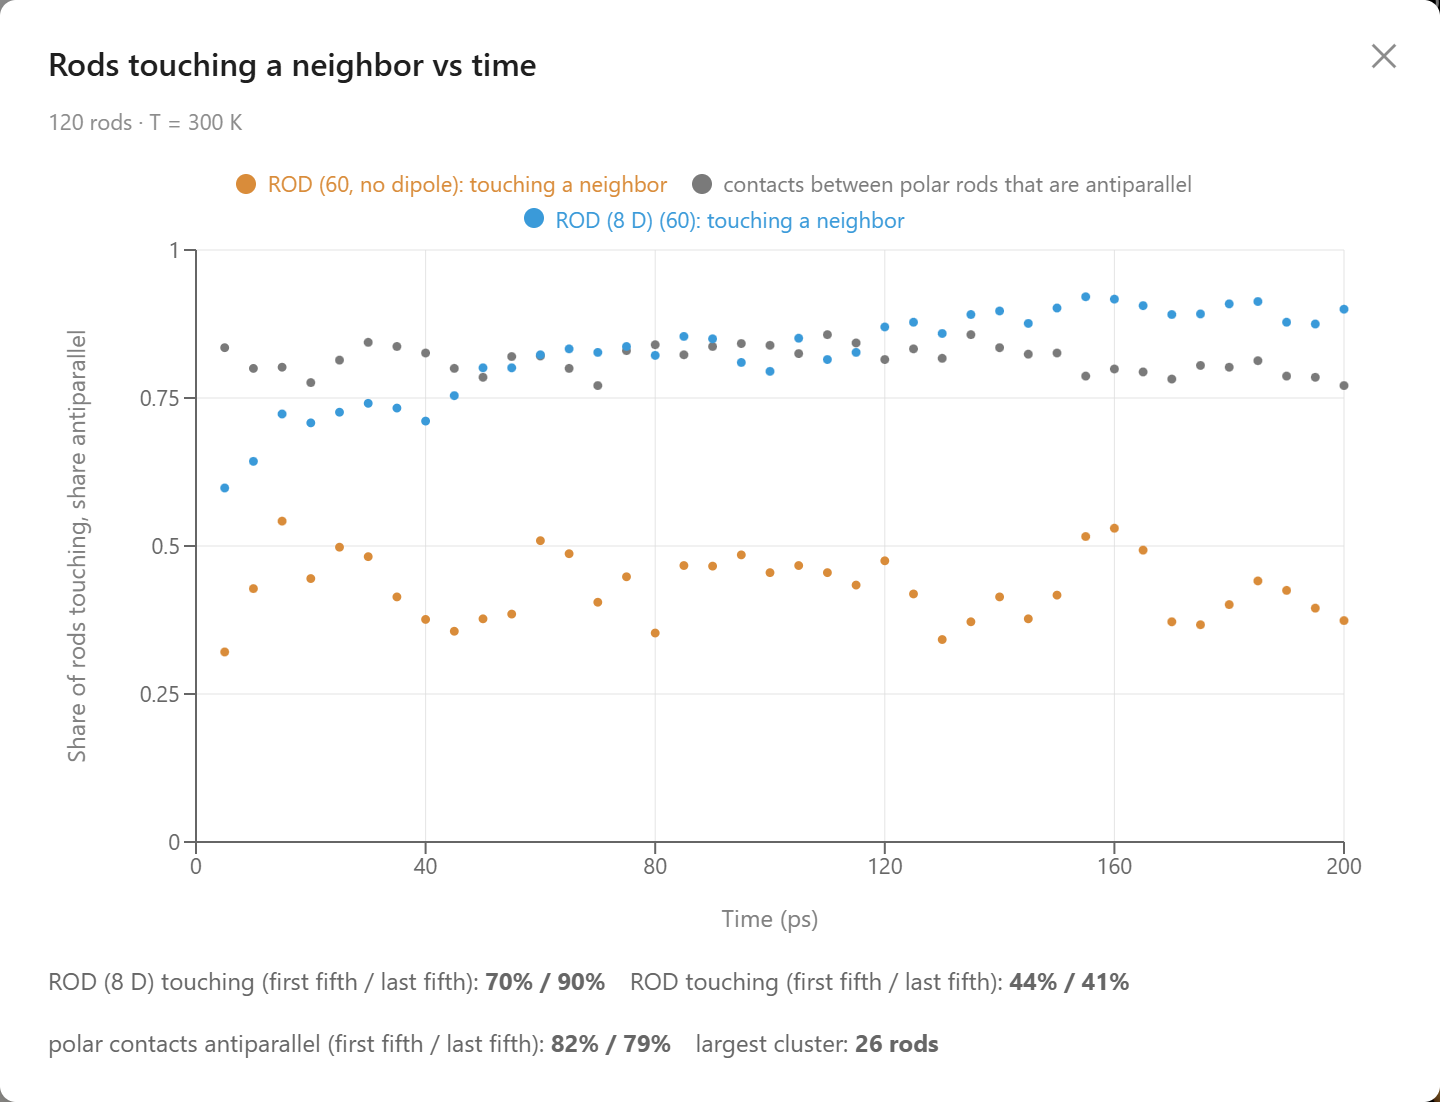
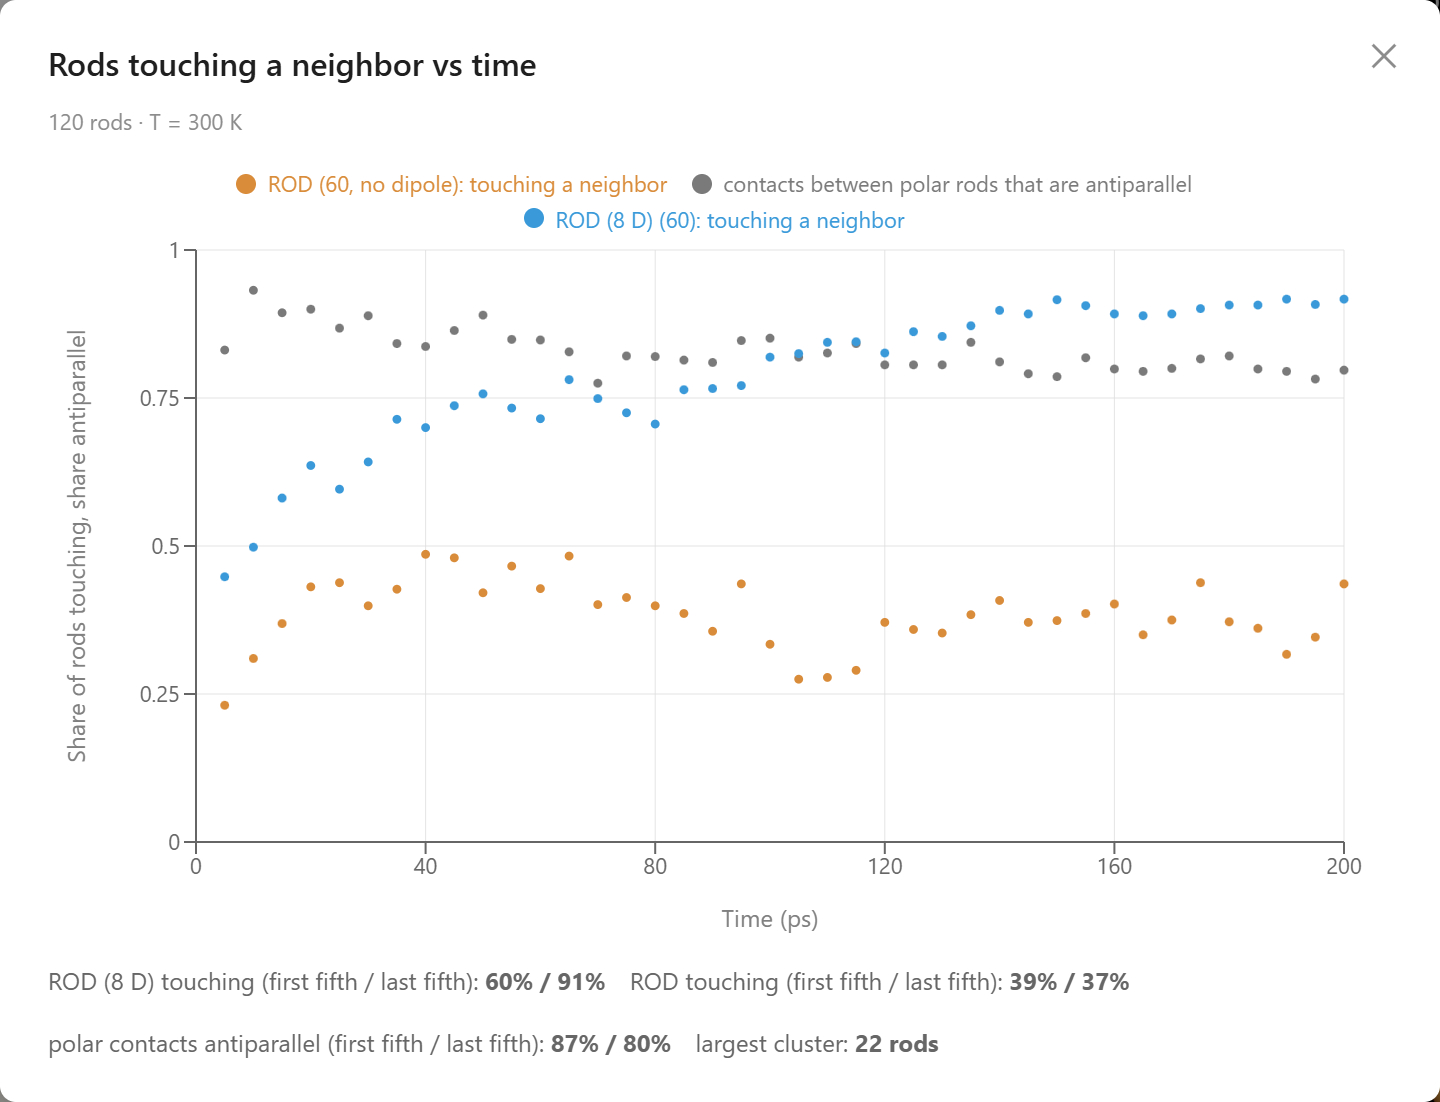
work

diff --git a/public/aims-liquid-crystals.html b/public/aims-liquid-crystals.html
@@ -131,7 +131,7 @@
                     while the crystals of the <a href="aims-phase-change.html">phase-change</a> and <a href="aims-heat-conduction.html">heat-conduction</a> articles on this site need only a few hundred atoms and are simulated atom by atom.</p>
 
                     <p>The model in this lab is the <a target="_blank" rel="noopener noreferrer" href="https://doi.org/10.1063/1.441483">Gay&ndash;Berne</a> potential of 1981, a single ellipsoid per molecule whose
-                    attraction depends on how two ellipsoids are oriented; in the model a pair of rods attracts five times more strongly side by side than end to end. Each rod here is 18&nbsp;&Aring; long and 5&nbsp;&Aring; wide and weighs what
+                    attraction depends on how two ellipsoids are oriented; in the model a pair of these rods attracts about seven times more strongly side by side than end to end, a ratio that follows from the length of the rod and would be 1 for a sphere. Each rod here is 18&nbsp;&Aring; long and 5&nbsp;&Aring; wide and weighs what
                     a molecule of <a target="_blank" rel="noopener noreferrer" href="https://en.wikipedia.org/wiki/4-Cyano-4%27-pentylbiphenyl">5CB</a>, the classic display liquid crystal, weighs, and it rotates under the torque its
                     neighbors exert. The ellipsoid has no head or tail: the electric dipole a 5CB molecule carries is left out, and the last section puts it back. Because the units are real, the temperature in the lab is a real temperature, and a student can compare the transition temperature of the model with the handbook value for 5CB.
                     Companion articles apply the same approach to <a href="aims-glass-transition.html">the glass transition of a polymer</a>, <a href="aims-protein-folding.html">protein folding</a>, and
@@ -270,7 +270,7 @@
                     <p class="v2-chart-caption">The second chat turn: the field is on from 4 to 14&nbsp;ps.</p>
 
                     <p>Another example in the same menu, <a target="_blank" rel="noopener noreferrer" href="https://aims.intofuture.org/?viewonly=true&amp;userid=HgVr8Ex4o9YsAjgku4RICvBldJK2&amp;project=A%20Guest-Host%20Liquid%20Crystal%20Display">A Guest-Host Liquid Crystal Display</a>, dissolves 20 long dye rods in 360 of these rods, laid across the cell, the off state of a pixel.
-                    The field turns only the host, and the host carries the dye with it. In its published run at 293&nbsp;K, the dye's absorption of light polarized across the cell fell from 0.92 to 0.26 of its maximum while the field was on, the way a guest-host pixel turns from colored to clear without the polarizing filters of an ordinary display.</p>
+                    The field turns only the host, and the host carries the dye with it. In its published run at 293&nbsp;K, the dye's absorption of light polarized across the cell fell from 0.91 to 0.07 of its maximum while the field was on, the way a guest-host pixel turns from colored to clear without the polarizing filters of an ordinary display.</p>
 
                     <h2>Mixing Long and Short Rods</h2>
 
@@ -328,41 +328,41 @@
                         </figcaption>
                     </figure>
 
-                    <p>Watched for 200&nbsp;ps, the polar rods spent far more of their time touching a neighbor than the plain ones: 58&nbsp;% of them over the last fifth of the run, against 35&nbsp;% of the rods with no dipole.
-                    Their contacts were almost all antiparallel, 88&nbsp;%, one rod's head beside the other's tail, where about half would be if the dipoles did not care which way a neighbor pointed; the largest cluster held 15 rods.
+                    <p>Watched for 200&nbsp;ps, the polar rods spent far more of their time touching a neighbor than the plain ones: 52&nbsp;% of them over the last fifth of the run, against 26&nbsp;% of the rods with no dipole.
+                    Their contacts were almost all antiparallel, 81&nbsp;%, one rod's head beside the other's tail, where about half would be if the dipoles did not care which way a neighbor pointed; the largest cluster held 14 rods.
                     The attraction between two 8&nbsp;debye dipoles side by side at contact is about 0.3&nbsp;eV, a little more than the Gay&ndash;Berne well, and unlike that well it falls off slowly, as the cube of the distance, so a polar rod feels a neighbor from several rod widths away.</p>
 
                     <div class="v2-screenshot-single">
-                        <img src="image/aims-lc-polar-sticking.png" alt="Share of rods touching a neighbor against time at 450 K: the polar rods rise to about 0.6, the plain rods stay near 0.35, and the share of polar contacts that are antiparallel stays near 0.85">
+                        <img src="image/aims-lc-polar-sticking.png" alt="Share of rods touching a neighbor against time at 450 K: the polar rods rise to about 0.5, the plain rods stay near 0.3, and the share of polar contacts that are antiparallel stays near 0.85">
                     </div>
                     <p class="v2-chart-caption">The first chat turn of the polar-rods example: the share of each kind of rod touching a neighbor, and the share of polar contacts that are antiparallel.</p>
 
-                    <p>A static field of 10&nbsp;V/nm along z, switched on at 40&nbsp;ps and off at 100&nbsp;ps, turned the polar rods and left the plain ones alone. The average of the polar rods' heads along the field rose from &minus;0.01 to 0.98 while the plain rods stayed at 0.02; in this model a static field acts only on a dipole, where a real nonpolar molecule would also be turned, weakly, through its polarizability.
+                    <p>A static field of 10&nbsp;V/nm along z, switched on at 40&nbsp;ps and off at 100&nbsp;ps, turned the polar rods and left the plain ones alone. The average of the polar rods' heads along the field rose from 0.05 to 0.97 while the plain rods stayed near zero, at &minus;0.03; in this model a static field acts only on a dipole, where a real nonpolar molecule would also be turned, weakly, through its polarizability.
                     The field is about ten thousand times the field across a display pixel because the alignment is set by the dipole's energy in the field divided by the thermal energy: at 1&nbsp;V/nm that ratio is 4 and the heads reach only 0.74, each rod still tumbling; at 3&nbsp;V/nm it is 13 and they reach 0.92 but wobble about 23&deg; around the field; at 10&nbsp;V/nm it is 43 and the wobble is 12&deg;.
-                    Turning the rods also changed their pairs. An antiparallel pair's dipoles cancel, so to line both up the field has to pull the two apart: the share of polar rods touching a neighbor fell from 68&nbsp;% to 35&nbsp;%, about the plain rods' 34&nbsp;%, and the contacts that remained were all head to tail along the field, none antiparallel, since dipoles pointing the same way attract end to end.
-                    When the field went off the heads scattered within about 10&nbsp;ps and the antiparallel pairs formed again, 44&nbsp;% touching and 81&nbsp;% antiparallel by the end.</p>
+                    Turning the rods also changed their pairs. An antiparallel pair's dipoles cancel, so to line both up the field has to pull the two apart: the share of polar rods touching a neighbor fell from 58&nbsp;% to 39&nbsp;%, near the plain rods' 31&nbsp;%, and the contacts that remained were all head to tail along the field, none antiparallel, since dipoles pointing the same way attract end to end.
+                    When the field went off the heads scattered within about 10&nbsp;ps and the antiparallel pairs formed again, 41&nbsp;% touching and 91&nbsp;% antiparallel by the end.</p>
 
                     <div class="v2-screenshot-single">
-                        <img src="image/aims-lc-polar-field.png" alt="Polar rods in a DC field against time: with the field on from 40 to 100 ps the polar heads along the field jump from 0 to about 0.98 and fall back when it is off, the plain rods stay near 0, the share of polar rods touching drops and the antiparallel share falls to 0 and recovers">
+                        <img src="image/aims-lc-polar-field.png" alt="Polar rods in a DC field against time: with the field on from 40 to 100 ps the polar heads along the field jump from 0 to about 0.97 and fall back when it is off, the plain rods stay near 0, the share of polar rods touching drops and the antiparallel share falls to 0 and recovers">
                     </div>
                     <p class="v2-chart-caption">The second chat turn: a field of 10&nbsp;V/nm from 40 to 100&nbsp;ps. The dark curves are the heads along the field, the light ones the shares touching, the gray one the share of polar contacts that are antiparallel.</p>
 
-                    <p>Cooled to 300&nbsp;K, the polar rods stuck and the plain ones mostly did not. Over 200&nbsp;ps the share of polar rods touching a neighbor rose from 70&nbsp;% to 90&nbsp;%, and they gathered into bundles, the largest of 26 rods, with 79&nbsp;% of their contacts antiparallel; the plain rods went from 44&nbsp;% to 41&nbsp;%, and many of those were stuck to a polar bundle rather than to one another.
+                    <p>Cooled to 300&nbsp;K, the polar rods stuck and the plain ones mostly did not. Over 200&nbsp;ps the share of polar rods touching a neighbor rose from 60&nbsp;% to 91&nbsp;%, and they gathered into bundles, the largest of 22 rods, with 80&nbsp;% of their contacts antiparallel; the plain rods went from 39&nbsp;% to 37&nbsp;%, and many of those were stuck to a polar bundle rather than to one another.
                     In a gas this thin a plain rod meets another only by chance, and the Gay&ndash;Berne attraction reaches barely a rod width beyond contact, while the dipoles pull on one another from several rod widths away. What the cooling changes is that a contact, once made, no longer breaks: at 300&nbsp;K the well is nine times the thermal energy, so the polar rods pile up instead of pairing and parting as they do at 450&nbsp;K.
                     The buttons under each chart load the lab at moments of the run, and set the thermostat to the temperature the frame was made at, so a student can press Play on the 300&nbsp;K bundles and watch them hold.</p>
 
                     <div class="v2-screenshot-single">
-                        <img src="image/aims-lc-polar-cooling.png" alt="Share of rods touching a neighbor against time at 300 K: the polar rods climb from 0.7 to 0.9 while the plain rods stay near 0.4">
+                        <img src="image/aims-lc-polar-cooling.png" alt="Share of rods touching a neighbor against time at 300 K: the polar rods climb from 0.6 to 0.9 while the plain rods stay near 0.4">
                     </div>
                     <p class="v2-chart-caption">The third chat turn: the same gas cooled to 300&nbsp;K.</p>
 
                     <p>A charge acts on a dipole too. The field of a charge turns a dipole's opposite end toward it, and because that field weakens with distance the turned dipole is then pulled inward: the ion&ndash;dipole attraction that gathers water molecules around a dissolved ion.
-                    The fourth chat turn gives one plain rod a charge of +2&nbsp;e and another, 40&nbsp;&Aring; away on the other side of the box, &minus;2&nbsp;e, holds both in place so that their surroundings stay in view, and watches for 200&nbsp;ps, back at 450&nbsp;K. Both ions gather a shell. The share of polar rods within 14&nbsp;&Aring; of the positive ion rose from 6&nbsp;% to 12&nbsp;%, about seven rods, and of the negative ion from 4&nbsp;% to 13&nbsp;%, about eight, while the plain rods, which feel nothing from a charge, stayed at the one or two that chance puts near either.
-                    The two shells differ in which end faces the charge. Around the positive ion the polar rods turn their negative, plain-colored halves inward; around the negative ion their positive, darker halves. Measured with the sign of the charge taken into account, the two shells point alike, 0.64 and 0.60 on a scale where 1 is every rod exactly radial; some rods are still paired antiparallel with a neighbor, which keeps that number from climbing further. The model is symmetric under reversing a charge together with every dipole, so the two shells should differ only by chance, and they do.
+                    The fourth chat turn gives one plain rod a charge of +2&nbsp;e and another, 40&nbsp;&Aring; away on the other side of the box, &minus;2&nbsp;e, holds both in place so that their surroundings stay in view, and watches for 200&nbsp;ps, back at 450&nbsp;K. Both ions gather a shell. The share of polar rods within 14&nbsp;&Aring; of the positive ion rose from 3&nbsp;% to 10&nbsp;%, about six rods, and of the negative ion from 1&nbsp;% to 10&nbsp;%, six as well, while the plain rods, which feel nothing from a charge, stayed at the one or two that chance puts near either.
+                    The two shells differ in which end faces the charge. Around the positive ion the polar rods turn their negative, plain-colored halves inward; around the negative ion their positive, darker halves. Measured with the sign of the charge taken into account, the two shells point alike, 0.62 and 0.67 on a scale where 1 is every rod exactly radial; some rods are still paired antiparallel with a neighbor, which keeps that number from climbing further. The model is symmetric under reversing a charge together with every dipole, so the two shells should differ only by chance, and they do.
                     The signs on the two charged rods and the two shades of the polar ones make the arrangement readable in the lab: a plus sign surrounded by plain halves, a minus sign surrounded by dark ones.</p>
 
                     <div class="v2-screenshot-single">
-                        <img src="image/aims-lc-polar-ion.png" alt="Rods around a positive and a negative charge against time: the share of polar rods within 14 Å of each ion climbs from about 0.05 to about 0.13, the plain rods stay near 0, and the dipoles near each ion point as its field asks at about 0.6">
+                        <img src="image/aims-lc-polar-ion.png" alt="Rods around a positive and a negative charge against time: the share of polar rods within 14 Å of each ion climbs from a few percent to about 0.10, the plain rods stay near 0, and the dipoles near each ion point as its field asks at about 0.6">
                     </div>
                     <p class="v2-chart-caption">The fourth chat turn: one plain rod carries +2&nbsp;e, another &minus;2&nbsp;e. The shares of polar rods near the positive ion (dark blue) and the negative one (crimson) climb together while the plain rods (brown) stay at chance; the near-black and dark-wine curves are how the dipoles near each ion point, the light gray one the share of polar contacts that are antiparallel.</p>
 
@@ -377,9 +377,9 @@
                             <li><span class="v2-prompts-step">A sharp transition under pressure</span> &mdash; at 8&nbsp;MPa the rods clear within one 10&nbsp;K step near 342&nbsp;K, and the cell grows by half in that step.</li>
                             <li><span class="v2-prompts-step">A pixel switch</span> &mdash; a 10&nbsp;ps pulse of an aligning field turns the average direction of disordered rods to within about 12&deg; of vertical and raises S from 0.22 to 0.34.</li>
                             <li><span class="v2-prompts-step">A mixture whose rods diverge</span> &mdash; in a cell of 320 short and 40 long rods, the short rods lose their order near 304&nbsp;K while the long rods stay above S = 0.5 to 473&nbsp;K; with 80 long rods the whole cell stays above 0.5 to about 390&nbsp;K.</li>
-                            <li><span class="v2-prompts-step">Dipoles that stick</span> &mdash; in a hot, thin gas, rods carrying an 8&nbsp;debye dipole touch a neighbor 58&nbsp;% of the time against 35&nbsp;% for identical rods without one, 88&nbsp;% of their contacts antiparallel; cooled to 300&nbsp;K they gather into bundles (90&nbsp;%) while the plain rods stay loose (41&nbsp;%).</li>
-                            <li><span class="v2-prompts-step">A field on the dipoles</span> &mdash; a static field of 10&nbsp;V/nm turns the polar rods to 0.98 along it and the plain rods not at all, breaks the antiparallel pairs into head-to-tail chains, and lets the pairs form again within tens of picoseconds of switching off.</li>
-                            <li><span class="v2-prompts-step">Ions among dipoles</span> &mdash; a plain rod held in place and given +2&nbsp;e and another given &minus;2&nbsp;e each gather seven or eight polar rods within 14&nbsp;&Aring; in 200&nbsp;ps, negative ends toward the positive charge and positive ends toward the negative one, while the plain rods ignore both.</li>
+                            <li><span class="v2-prompts-step">Dipoles that stick</span> &mdash; in a hot, thin gas, rods carrying an 8&nbsp;debye dipole touch a neighbor 52&nbsp;% of the time against 26&nbsp;% for identical rods without one, 81&nbsp;% of their contacts antiparallel; cooled to 300&nbsp;K they gather into bundles (91&nbsp;%) while the plain rods stay loose (37&nbsp;%).</li>
+                            <li><span class="v2-prompts-step">A field on the dipoles</span> &mdash; a static field of 10&nbsp;V/nm turns the polar rods to 0.97 along it and the plain rods not at all, breaks the antiparallel pairs into head-to-tail chains, and lets the pairs form again within tens of picoseconds of switching off.</li>
+                            <li><span class="v2-prompts-step">Ions among dipoles</span> &mdash; a plain rod held in place and given +2&nbsp;e and another given &minus;2&nbsp;e each gather about six polar rods within 14&nbsp;&Aring; in 200&nbsp;ps, negative ends toward the positive charge and positive ends toward the negative one, while the plain rods ignore both.</li>
                         </ul>
                     </div>
 
